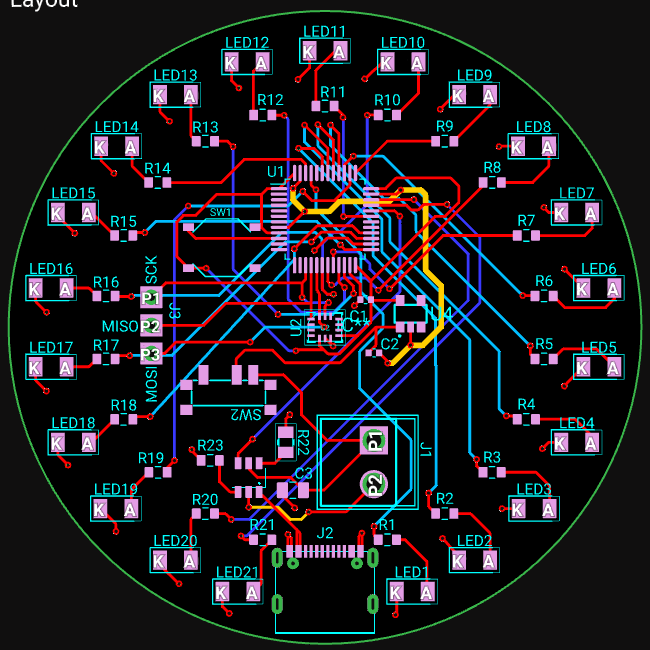
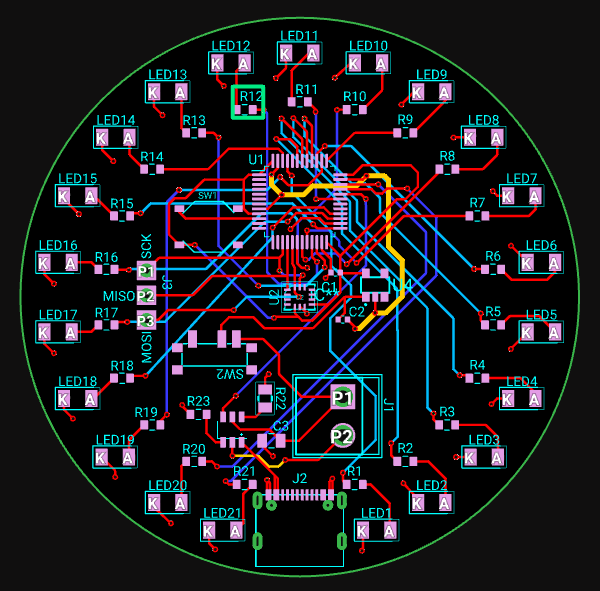
Updates the LED Ring PCB Front photo to not have the text in it

diff --git a/index.html b/index.html
@@ -19,7 +19,7 @@
         LED Ring Circuit Board
     </font>
 </p>
-<img src="docs/assets/LED Ring Front 2D.png" height="325" width="325" alt="LED Ring Front 2D Layout" align="middle"/>
+<img src="docs/assets/LED Ring Front 2D.png" height="245" width="300" alt="LED Ring Front 2D Layout" align="middle"/>
 <img src="docs/assets/LED Ring Corner 3D.png" height="225" width="315" alt="LED Ring Corner" align="middle"/>
 <img src="docs/assets/LED Ring Front 3D.png" height="307" width="307" alt="LED Ring Front 3D Layout" align="middle"/>
 <img src="docs/assets/LED Ring Back 3D.png" height="305" width="305" alt="LED Ring Back 3D Layout" align="middle"/>
